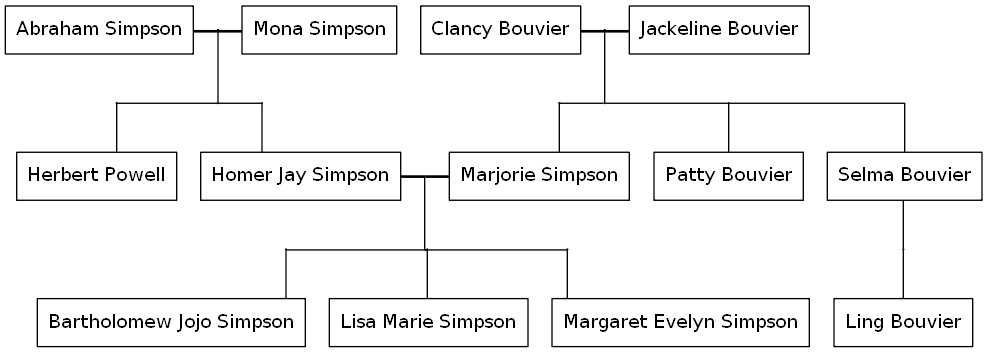
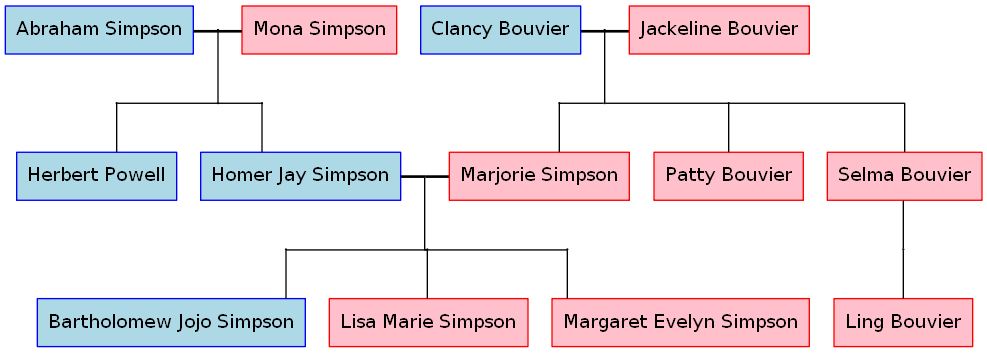
support modify for dot output

diff --git a/README.md b/README.md
@@ -74,10 +74,12 @@ generation { <person> <person> [<person>...] }
 
 ### Family
 ```
-( <person> [<person>] ) - ( <person> [<person>...] )
+( <person> [<person>] ) - ( <person> [{<modify>}] [<person>...] )
 ```
 - The first block in the parenthesis indicates the parents.
 - The second block in the parenthesis indicates the children.
+- `modify` specifies the modification of the dot output.
+    - `joint` specifies the joint connected to the child. The value is 0, 1, or 2.
 
 ### End
 ```
